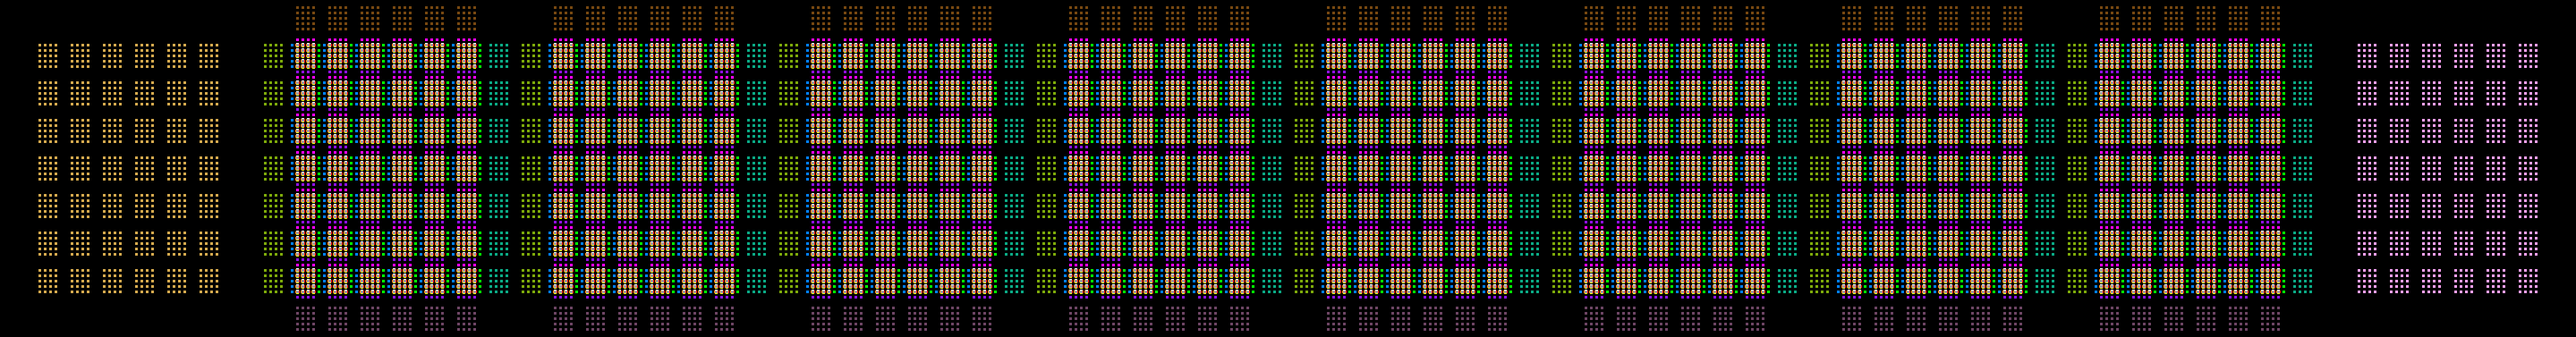
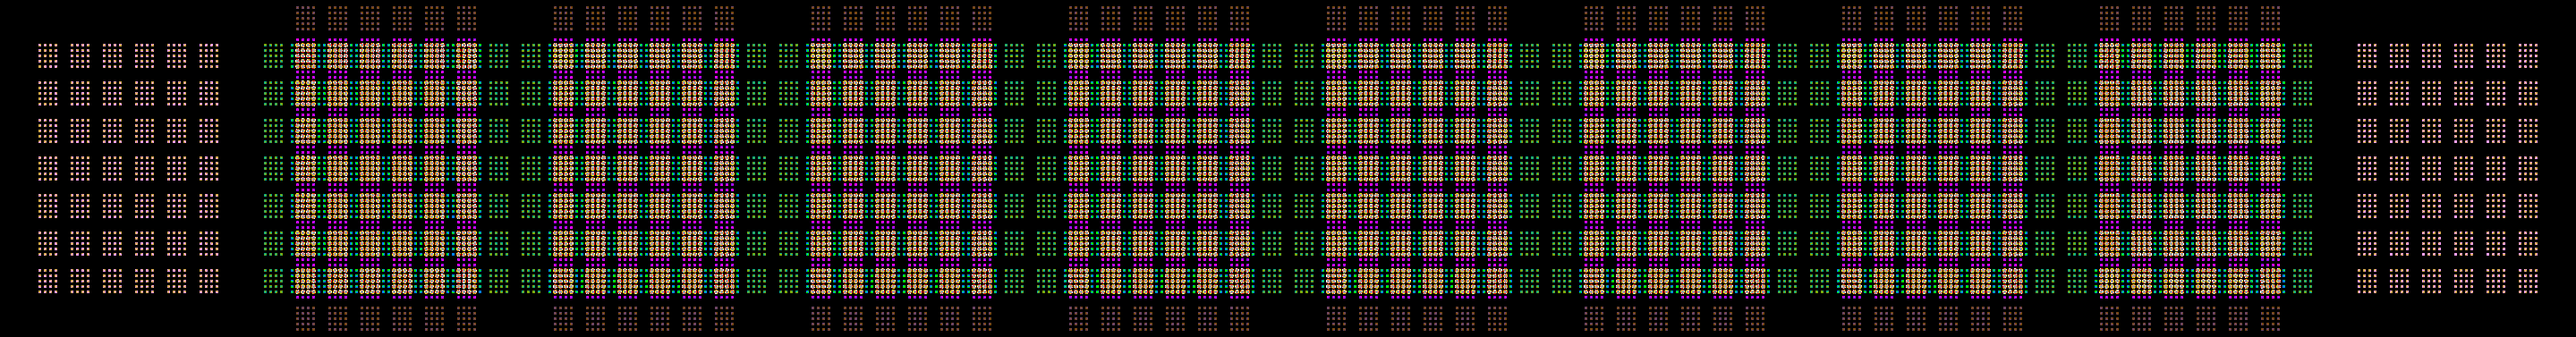
made scramble and optimized turn

diff --git a/src/main.rs b/src/main.rs
@@ -480,11 +480,6 @@ impl Puzzle {
     }
 
     #[inline(never)]
-    fn scramble(&mut self, rng: &mut impl Rng) {
-        todo!()
-    }
-
-    #[inline(never)]
     fn is_solved(&self) -> bool {
         let mut pos_colors: Vec<Option<Side>> = vec![None; self.shape.len()];
         let mut neg_colors: Vec<Option<Side>> = vec![None; self.shape.len()];
@@ -524,6 +519,59 @@ impl Puzzle {
         true
     }
 
+    // #[inline(never)]
+    // fn turn_side(&mut self, turn: &SideTurn) -> Result<(), TurnError> {
+    //     let SideTurn {
+    //         ref layers,
+    //         side,
+    //         from,
+    //         to,
+    //     } = *turn;
+    //     if side == from.into_side()
+    //         || !side == from.into_side()
+    //         || side == to.into_side()
+    //         || !side == to.into_side()
+    //         || from == to
+    //     {
+    //         return Err(TurnError::UndefinedPlane);
+    //     }
+    //     // assert!(from.0 >= 0 && to.0 >= 0);
+    //     // TODO: i don't think this needs to be a hashmap
+    //     let mut new_stickers = Vec::new();
+    //     let mut from_pos = vec![Coord(0); self.shape.len()].into_boxed_slice();
+    //     for pos in self.stickers.keys() {
+    //         // TODO: layer mask
+    //         // if if side.0 >= 0 {
+    //         //     layers.0[pos[side.0 as usize].0 as usize]
+    //         // } else {
+    //         //     layers.0[pos[(!side.0) as usize].0 as usize]
+    //         // } {
+    //         if if side.is_positive() {
+    //             ((self.shape[side.into_usize()].0 - 1)..=self.shape[side.into_usize()].0)
+    //                 .contains(&pos[side.into_usize()].0)
+    //         } else {
+    //             ((-self.shape[(!side).into_usize()].0)..=(1 - self.shape[(!side).into_usize()].0))
+    //                 .contains(&pos[(!side).into_usize()].0)
+    //         } {
+    //             // TODO: compute to_pos instead of from_pos???
+    //             // let mut from_pos = pos.clone();
+    //             // this is actually faster, i checked
+    //             from_pos.clone_from_slice(pos);
+
+    //             // for cuboids, if you can't turn 90 degrees, just turn 180 degrees
+    //             if self.shape[from.into_usize()] == self.shape[to.into_usize()] {
+    //                 from_pos[from.into_usize()] = pos[to.into_usize()];
+    //                 from_pos[to.into_usize()] = -pos[from.into_usize()];
+    //             } else {
+    //                 from_pos[from.into_usize()] = -pos[from.into_usize()];
+    //                 from_pos[to.into_usize()] = -pos[to.into_usize()];
+    //             }
+    //             new_stickers.push((pos.clone(), self.stickers[&from_pos]));
+    //         }
+    //     }
+    //     self.stickers.extend(new_stickers);
+    //     Ok(())
+    // }
     #[inline(never)]
     fn turn_side(&mut self, turn: &SideTurn) -> Result<(), TurnError> {
         let SideTurn {
@@ -540,10 +588,9 @@ impl Puzzle {
         {
             return Err(TurnError::UndefinedPlane);
         }
-        // assert!(from.0 >= 0 && to.0 >= 0);
-        // TODO: i don't think this needs to be a hashmap
-        let mut new_stickers = HashMap::new();
-        for pos in self.stickers.keys() {
+        let mut new_stickers = Vec::new();
+        let mut from_pos = vec![Coord(0); self.shape.len()].into_boxed_slice();
+        for (pos, old_sticker) in &self.stickers {
             // TODO: layer mask
             // if if side.0 >= 0 {
             //     layers.0[pos[side.0 as usize].0 as usize]
@@ -558,7 +605,11 @@ impl Puzzle {
                     .contains(&pos[(!side).into_usize()].0)
             } {
                 // TODO: compute to_pos instead of from_pos???
-                let mut from_pos = pos.clone();
+                
+                // let mut from_pos = pos.clone();
+                // this is actually faster, i checked
+                from_pos.clone_from_slice(pos);
+
                 // for cuboids, if you can't turn 90 degrees, just turn 180 degrees
                 if self.shape[from.into_usize()] == self.shape[to.into_usize()] {
                     from_pos[from.into_usize()] = pos[to.into_usize()];
@@ -567,10 +618,16 @@ impl Puzzle {
                     from_pos[from.into_usize()] = -pos[from.into_usize()];
                     from_pos[to.into_usize()] = -pos[to.into_usize()];
                 }
-                new_stickers.insert(pos.clone(), self.stickers[&from_pos]);
+                new_stickers.push((old_sticker as *const _, self.stickers[&from_pos]));
             }
         }
-        self.stickers.extend(new_stickers);
+        for (old_sticker, new_sticker) in new_stickers {
+            // # Safety: old sticker is where the entry was,
+            // and we didn't modify the map so it should still be there.
+            unsafe {
+                *(old_sticker as *mut _) = new_sticker;
+            }
+        }
         Ok(())
     }
 
@@ -580,14 +637,14 @@ impl Puzzle {
         if from == to {
             return Err(TurnError::UndefinedPlane);
         }
-        let mut new_stickers = HashMap::new();
+        let mut new_stickers = Vec::new();
         for pos in self.stickers.keys() {
             let mut from_pos = pos.clone();
             from_pos[from.into_usize()] = pos[to.into_usize()];
             from_pos[to.into_usize()] = -pos[from.into_usize()];
-            new_stickers.insert(pos.clone(), self.stickers[&from_pos]);
+            new_stickers.push((pos.clone(), self.stickers[&from_pos]));
         }
-        self.stickers = new_stickers;
+        self.stickers = HashMap::from_iter(new_stickers);
         Ok(())
     }
 
@@ -598,6 +655,35 @@ impl Puzzle {
             Turn::Side(turn) => self.turn_side(turn),
             Turn::Puzzle(turn) => self.turn_puzzle(turn),
         }
+    }
+
+    #[inline(never)]
+    fn scramble(&mut self, rng: &mut impl Rng) {
+        const SCRAMBLE_N: usize = 1000;
+        let start = std::time::Instant::now();
+        let dim = self.shape.len() as i16;
+        let side_dist = rand::distr::Uniform::new(-dim, dim).unwrap();
+        let axis_dist = rand::distr::Uniform::new(0, dim).unwrap();
+        for _ in 0..SCRAMBLE_N {
+            // TODO: layer mask
+            let side = rng.sample(side_dist);
+            let from = rng.sample(axis_dist);
+            if side == from || !side == from {
+                continue;
+            }
+            let to = rng.sample(axis_dist);
+            if side == to || !side == to || from == to {
+                continue;
+            }
+            self.turn_side(&SideTurn {
+                layers: LayerMask::new(),
+                side: Side(side),
+                from: Axis::new(from),
+                to: Axis::new(to),
+            })
+            .unwrap();
+        }
+        println!("scrambled  in {:?}", start.elapsed());
     }
 }
 
@@ -878,6 +964,7 @@ impl eframe::App for App {
             .frame(egui::Frame::NONE)
             .show(ctx, |ui| {
                 ctx.input(|i| {
+                    // handle input
                     for event in i.events.iter() {
                         if let egui::Event::Key {
                             key,
@@ -897,8 +984,12 @@ impl eframe::App for App {
                     }
                 });
 
-                // let dt = ctx.input(|input_state| input_state.stable_dt);
-                // // println!("dt: {:?}", dt);
+                // draw ui
+                if ui.button("scramble").clicked() {
+                    self.puzzle.scramble(&mut rand::rng());
+                }
+
+                // draw puz
                 match &self.layout {
                     Layout::TwoD(layout) => {
                         let painter = ui.painter();
@@ -964,11 +1055,13 @@ fn main() -> eframe::Result {
     // unsafe { std::env::set_var("RUST_BACKTRACE", "1") };
     // env_logger::init();
 
-    // let app = App::new(&[3, 3, 4, 5, 6, 7, 8].map(Cut));
-    // app.render_png("render.png");
-    // panic!();
+    let mut app = App::new(&[3, 3, 4, 5, 6, 7, 8].map(Cut));
+    app.puzzle.scramble(&mut rand::rng());
+    app.render_png("render.png");
+    panic!();
 
-    let app = App::new(&[2, 3, 4].map(Cut));
+    // let app = App::new(&[2, 3, 4].map(Cut));
+    let app = App::new(&[3, 3, 4].map(Cut));
     let native_options = eframe::NativeOptions::default();
     eframe::run_native(
         "rectangle",
